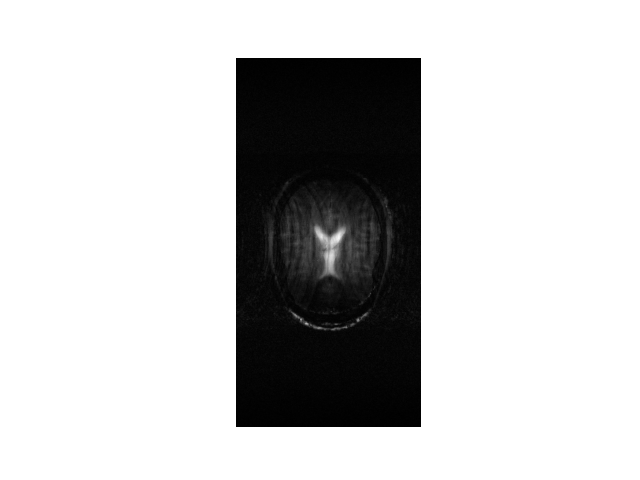
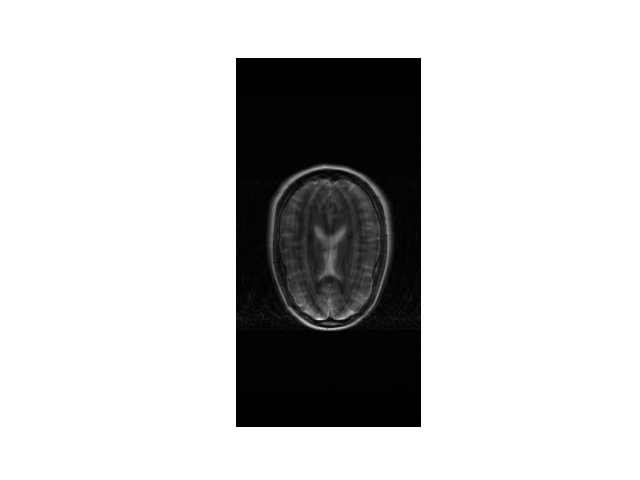
wrong fft on kspace

Changed region(s): [[0.4062, 0.3438, 0.625, 0.6875]]

diff --git a/my_CDLNet/sense.py b/my_CDLNet/sense.py
@@ -43,7 +43,7 @@ def main(args):
     # Squeeze smaps, also conjugate since they come as conjugated form
     # smaps = smaps[0, :, :, :].conj()
     kspace = torch.from_numpy(kspace)  
-    smaps = walsh_smaps(fftc(kspace[None]))
+    smaps = walsh_smaps(ifftc(kspace[None]))
     smaps = torch.squeeze(smaps.conj())
     # Detect acceleration maps
     #mask = detect_acc_mask(kspace)
